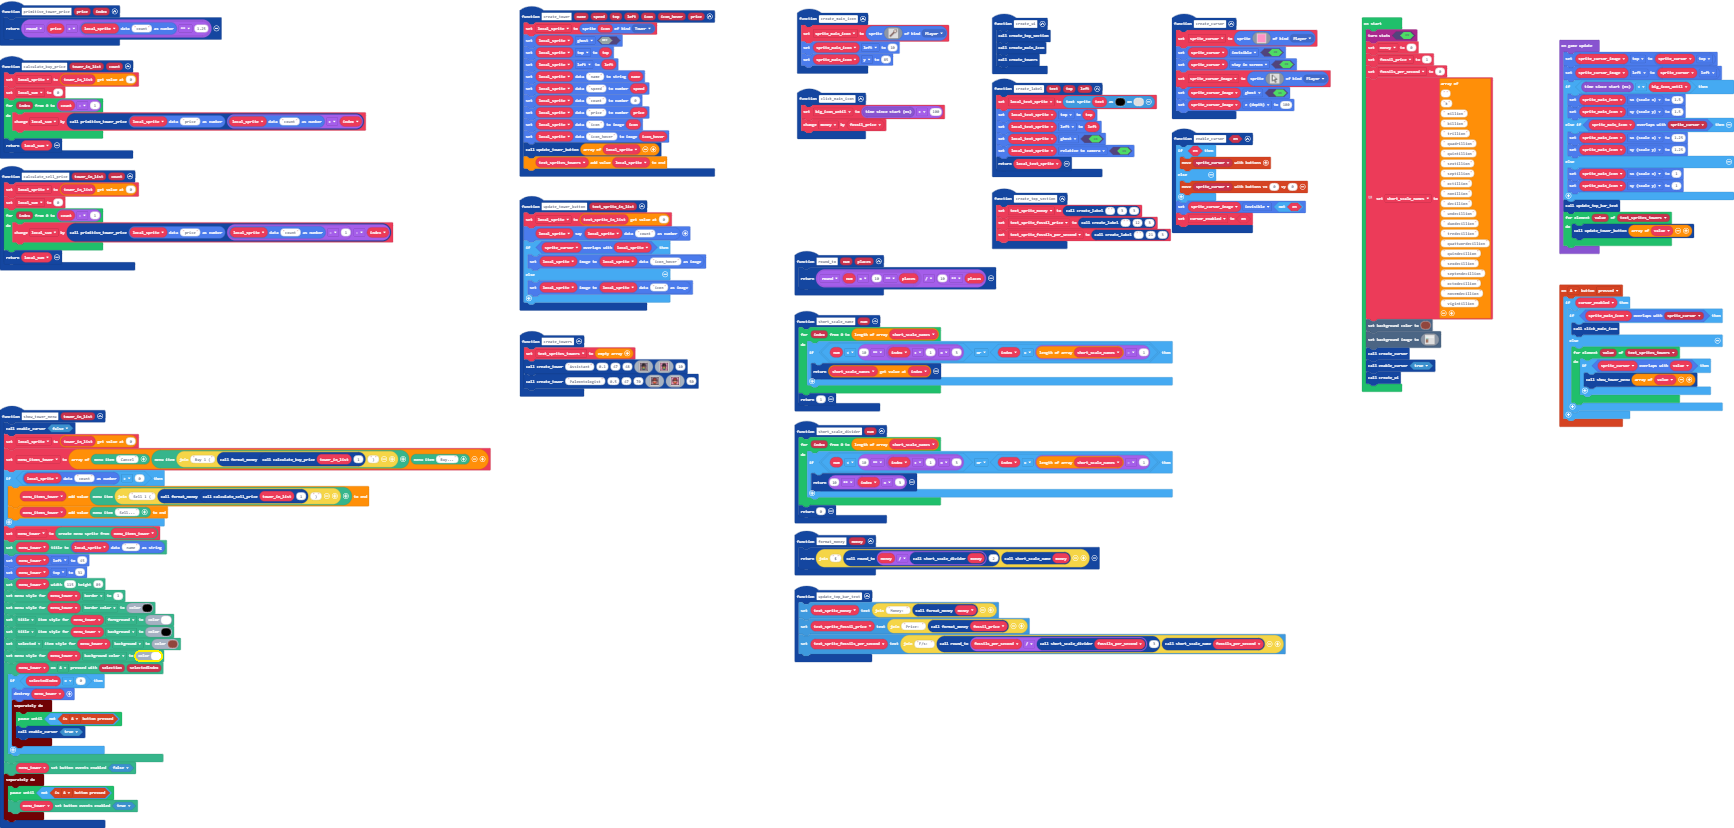
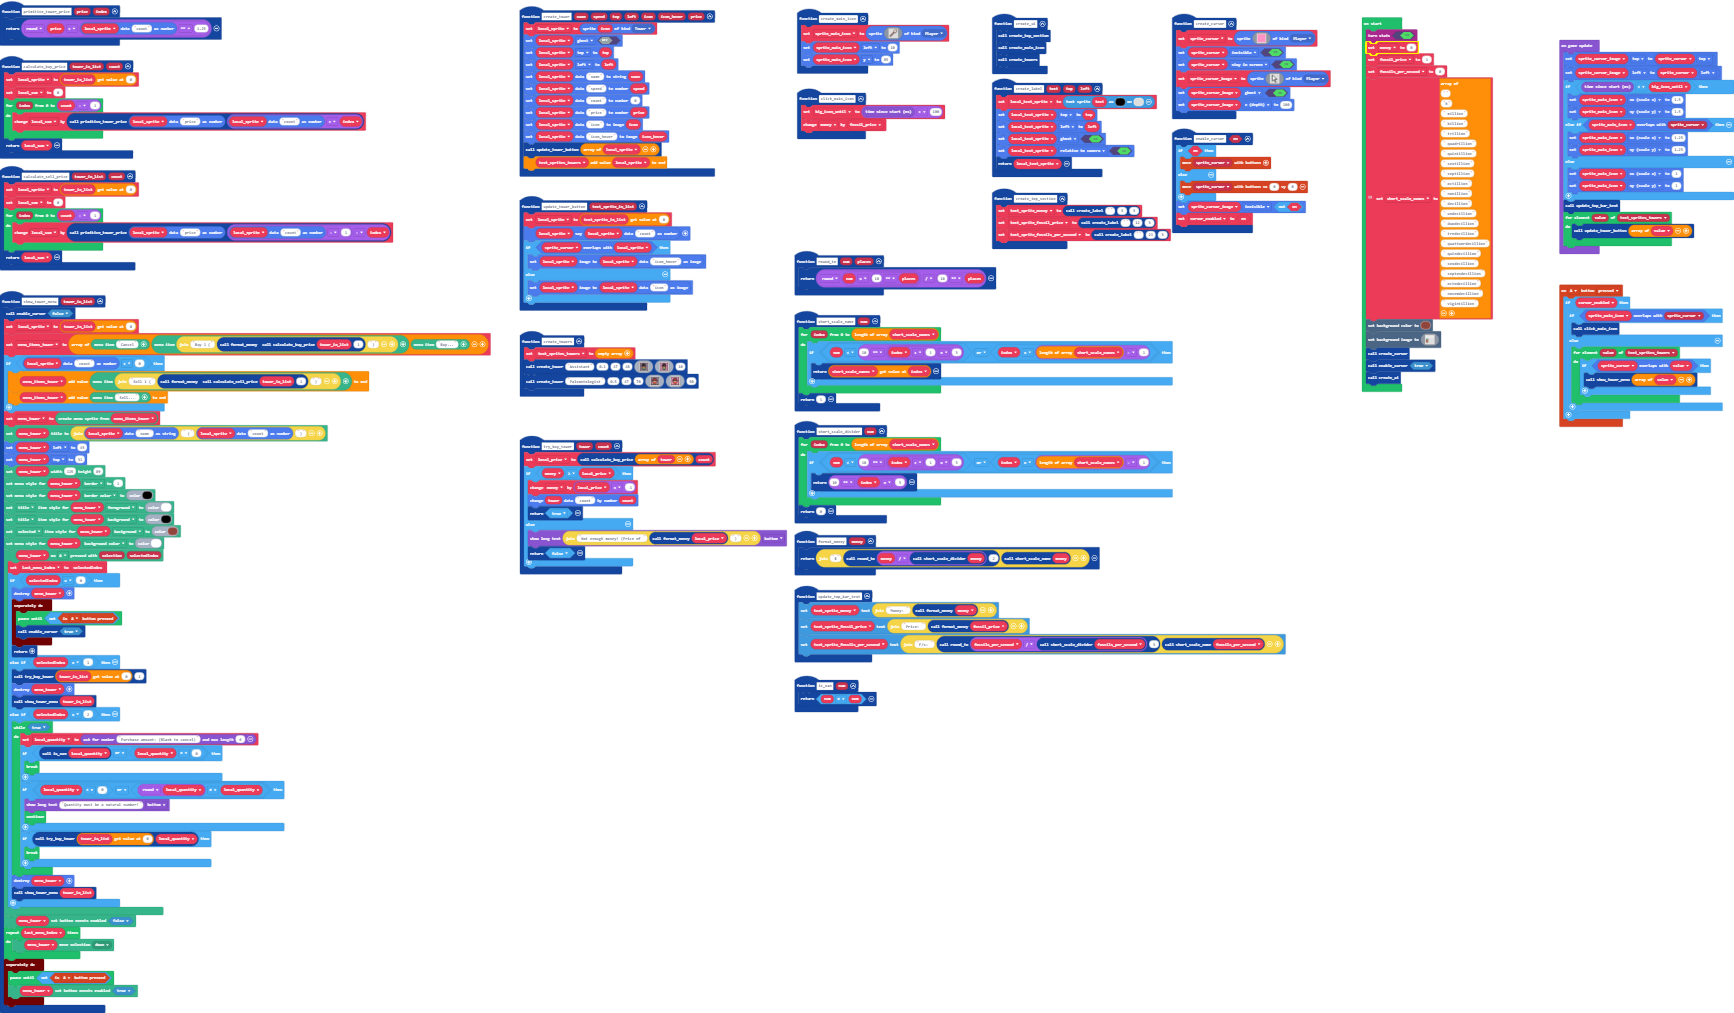
Buy works

diff --git a/main.ts b/main.ts
@@ -57,7 +57,7 @@ function show_tower_menu (tower_in_list: Sprite[]) {
         menu_items_tower.push(miniMenu.createMenuItem("Sell..."))
     }
     menu_tower = miniMenu.createMenuFromArray(menu_items_tower)
-    menu_tower.setTitle(sprites.readDataString(local_sprite, "name"))
+    menu_tower.setTitle("" + sprites.readDataString(local_sprite, "name") + " (" + sprites.readDataNumber(local_sprite, "count") + ")")
     menu_tower.left = 45
     menu_tower.top = 31
     menu_tower.setDimensions(115, 89)
@@ -68,15 +68,40 @@ function show_tower_menu (tower_in_list: Sprite[]) {
     menu_tower.setStyleProperty(miniMenu.StyleKind.Selected, miniMenu.StyleProperty.Background, images.colorBlock(14))
     menu_tower.setMenuStyleProperty(miniMenu.MenuStyleProperty.BackgroundColor, images.colorBlock(1))
     menu_tower.onButtonPressed(controller.A, function (selection, selectedIndex) {
+        last_menu_index = selectedIndex
         if (selectedIndex == 0) {
             sprites.destroy(menu_tower)
             timer.background(function () {
                 pauseUntil(() => !(controller.A.isPressed()))
                 enable_cursor(true)
             })
+            return
+        } else if (selectedIndex == 1) {
+            try_buy_tower(tower_in_list[0], 1)
+            sprites.destroy(menu_tower)
+            show_tower_menu(tower_in_list)
+        } else if (selectedIndex == 2) {
+            while (true) {
+                local_quantity = game.askForNumber("Purchase amount: (Blank to cancel)", 6)
+                if (is_nan(local_quantity) || local_quantity == 0) {
+                    break;
+                }
+                if (local_quantity < 0 || Math.round(local_quantity) != local_quantity) {
+                    game.showLongText("Quantity must be a natural number!", DialogLayout.Bottom)
+                    continue;
+                }
+                if (try_buy_tower(tower_in_list[0], local_quantity)) {
+                    break;
+                }
+            }
+            sprites.destroy(menu_tower)
+            show_tower_menu(tower_in_list)
         }
     })
     menu_tower.setButtonEventsEnabled(false)
+    for (let index = 0; index < last_menu_index; index++) {
+        menu_tower.moveSelection(miniMenu.MoveDirection.Down)
+    }
     timer.background(function () {
         pauseUntil(() => !(controller.A.isPressed()))
         menu_tower.setButtonEventsEnabled(true)
@@ -91,6 +116,9 @@ function update_top_bar_text () {
     text_sprite_money.setText("Money: " + format_money(money))
     text_sprite_fossil_price.setText("Price: " + format_money(fossil_price))
     text_sprite_fossils_per_second.setText("F/s: " + round_to(fossils_per_second / short_scale_divider(fossils_per_second), 3) + short_scale_name(fossils_per_second))
+}
+function is_nan (num: number) {
+    return num != num
 }
 function create_cursor () {
     sprite_cursor = sprites.create(assets.image`cursor_pixel`, SpriteKind.Player)
@@ -166,9 +194,23 @@ function create_tower (name: string, speed: number, top: number, left: number, i
     update_tower_button([local_sprite])
     text_sprites_towers.push(local_sprite)
 }
+function try_buy_tower (tower: Sprite, count: number) {
+    local_price = calculate_buy_price([tower], count)
+    if (money >= local_price) {
+        money += local_price * -1
+        sprites.changeDataNumberBy(tower, "count", count)
+        return true
+    } else {
+        game.showLongText("Not enough money! (Price of " + format_money(local_price) + ")", DialogLayout.Bottom)
+        return false
+    }
+}
+let local_price = 0
 let big_icon_until = 0
 let local_sum = 0
 let sprite_cursor_image: Sprite = null
+let local_quantity = 0
+let last_menu_index = 0
 let menu_tower: miniMenu.MenuSprite = null
 let menu_items_tower: miniMenu.MenuItem[] = []
 let local_sprite: Sprite = null
